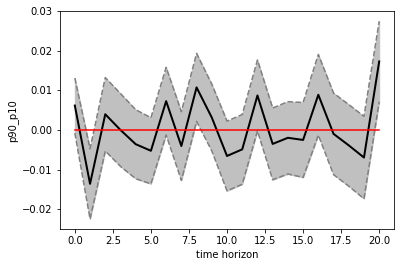
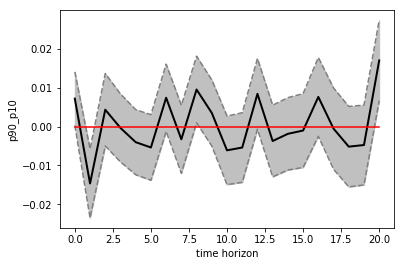
run estimation

diff --git a/analysis/7_LP_estimation.py b/analysis/7_LP_estimation.py
@@ -70,7 +70,7 @@ X = {}
 for k in [stdev, gini_coeff, p90_p10, exp_10, exp_90]:
     X[k.name] = pd.DataFrame()
     X[k.name]["const"] = np.ones(len(shock_series))
-    for i in range(20):
+    for i in range(21):
         X[k.name]["rr_L" + str(i)] = shock_series["Shock_values"].shift(i)
     for j in range(1, 7):
         X[k.name]["dy_" + str(j)] = k.shift(j) - k.shift(j + 1)
